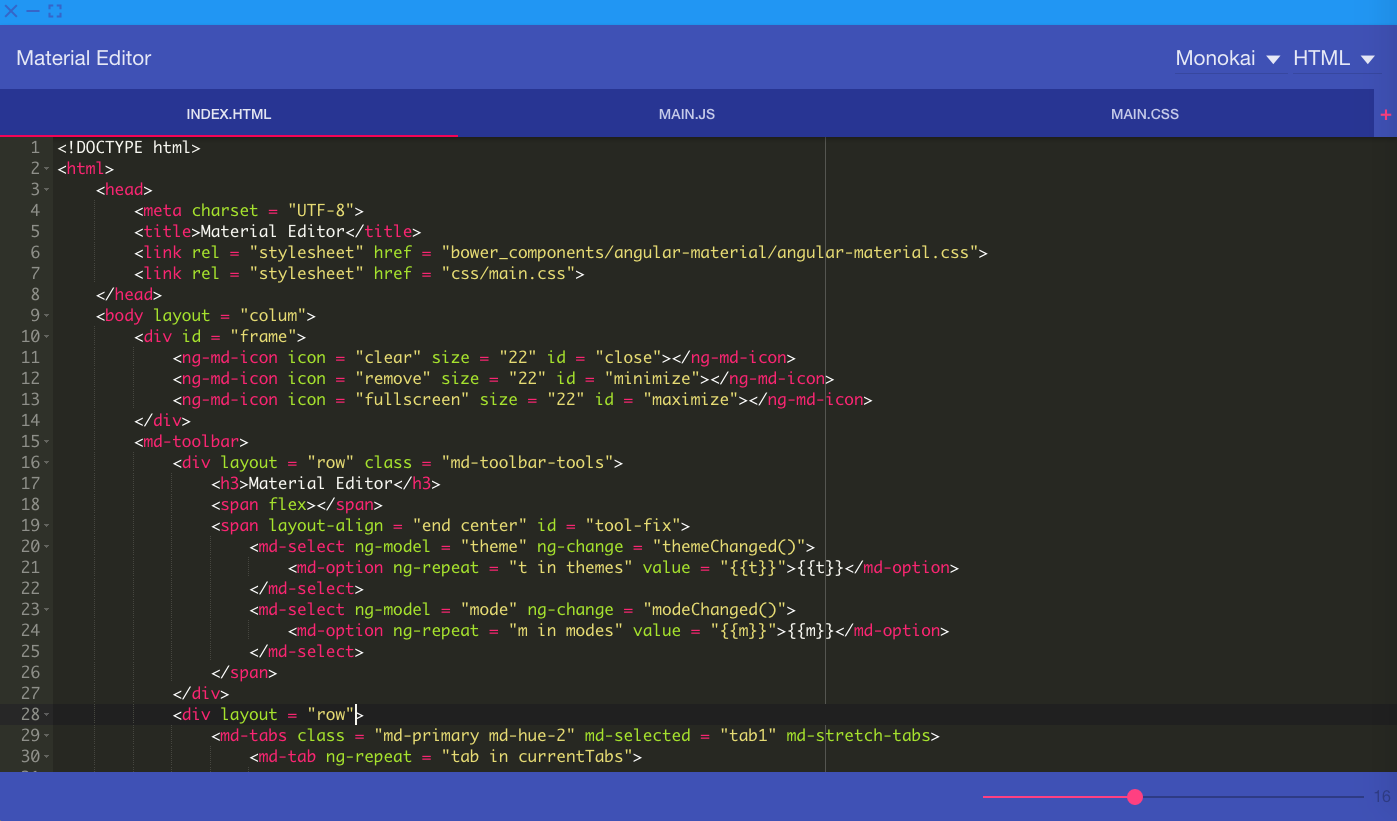
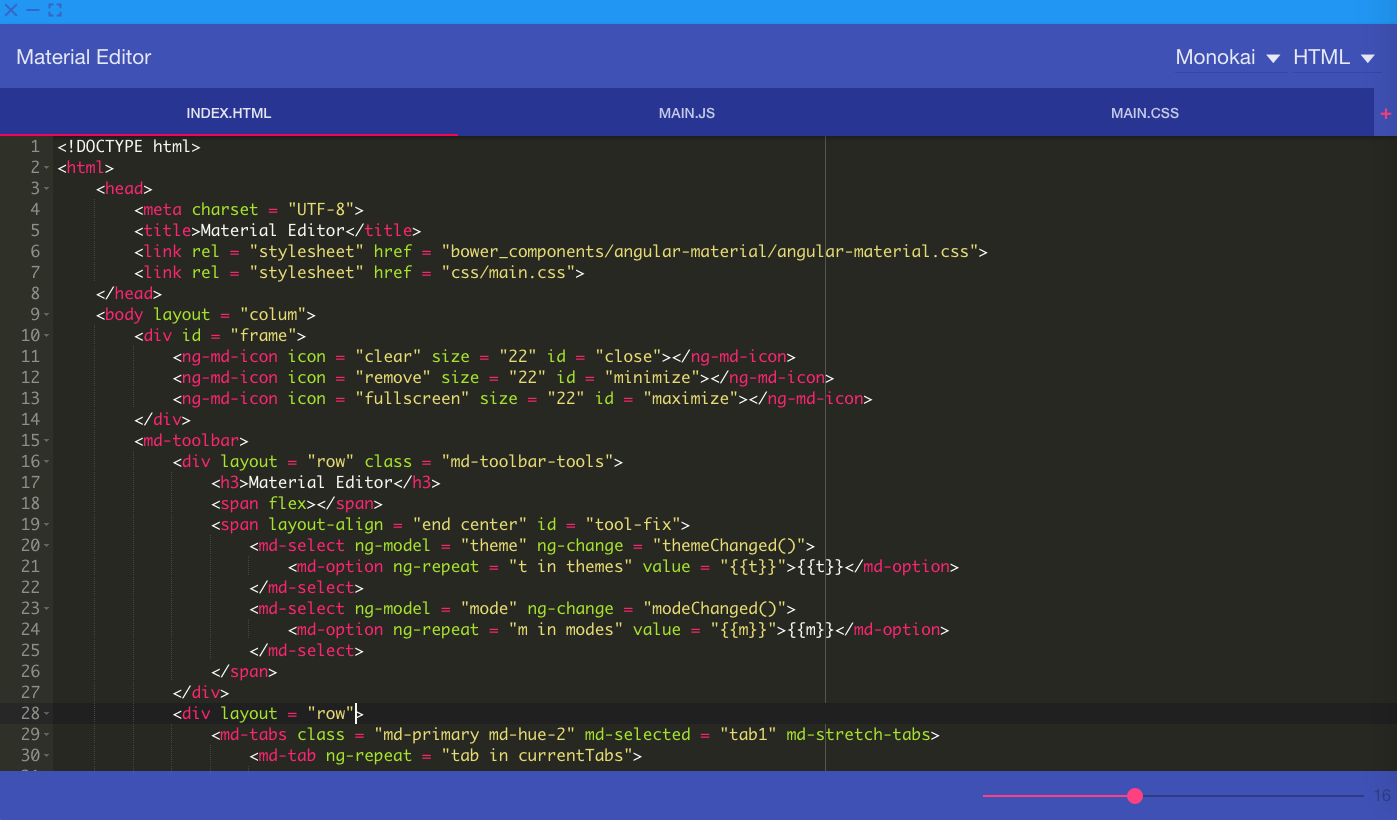
Image Change

diff --git a/materialeditor.html b/materialeditor.html
@@ -27,7 +27,7 @@
               <a class="waves-effect waves-light grey darken-2 btn-large" href = "https://github.com/MaterialLabs/Material-Editor"><i class="mdi-image-wb-cloudy left"></i>Github</a>
           </div>
           <div class="row center">
-              <img class = "responsive-img" src="assets/editor-large-cropped.png" alt="" id = "editor-img">
+              <img class = "responsive-img" src="assets/editor-large-parallax.png" alt="" id = "editor-img">
           </div>
       </div>
   </div>
